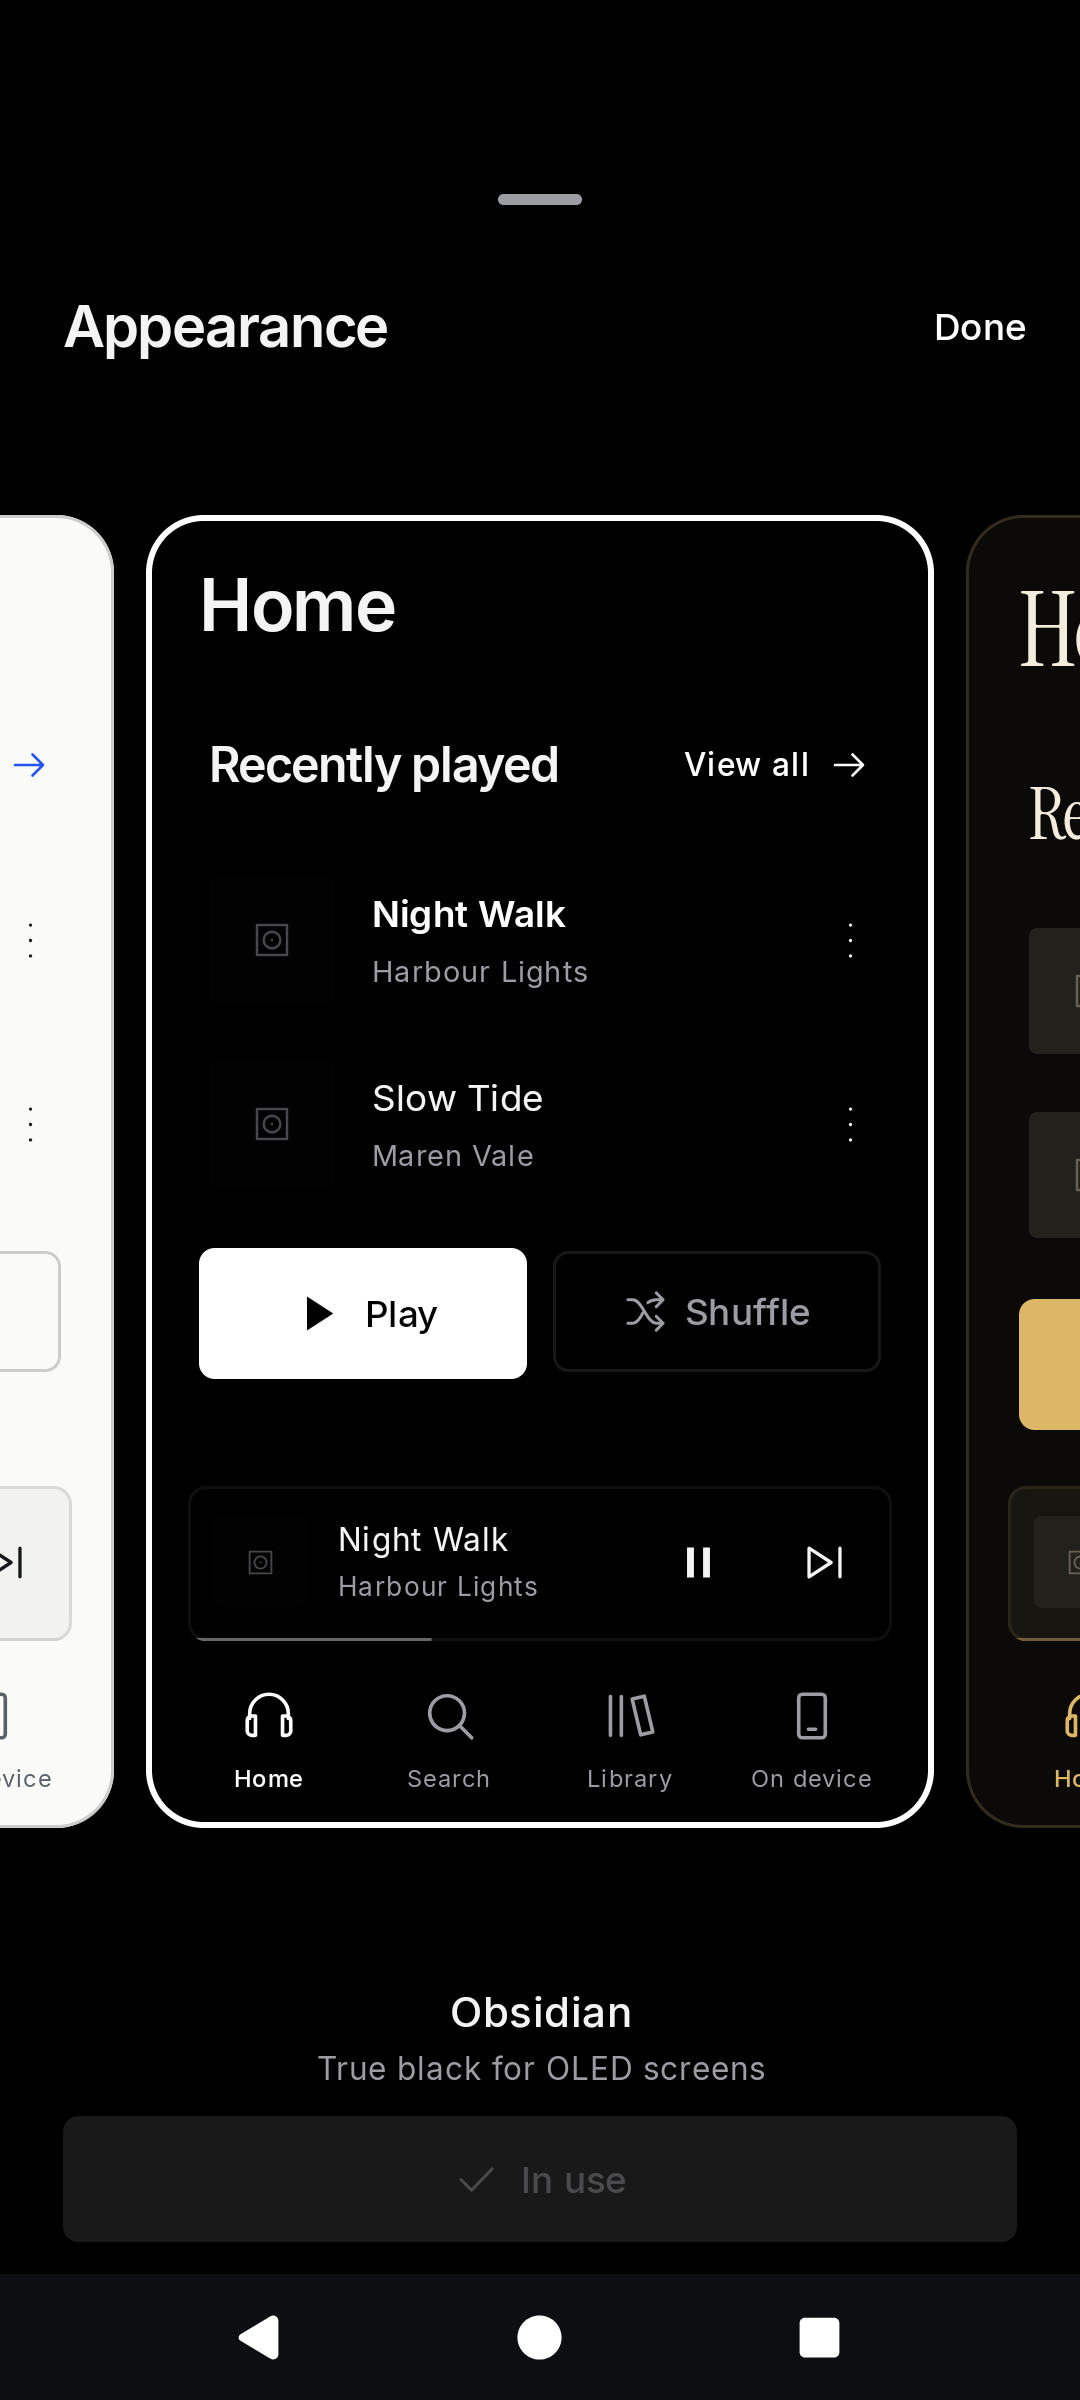
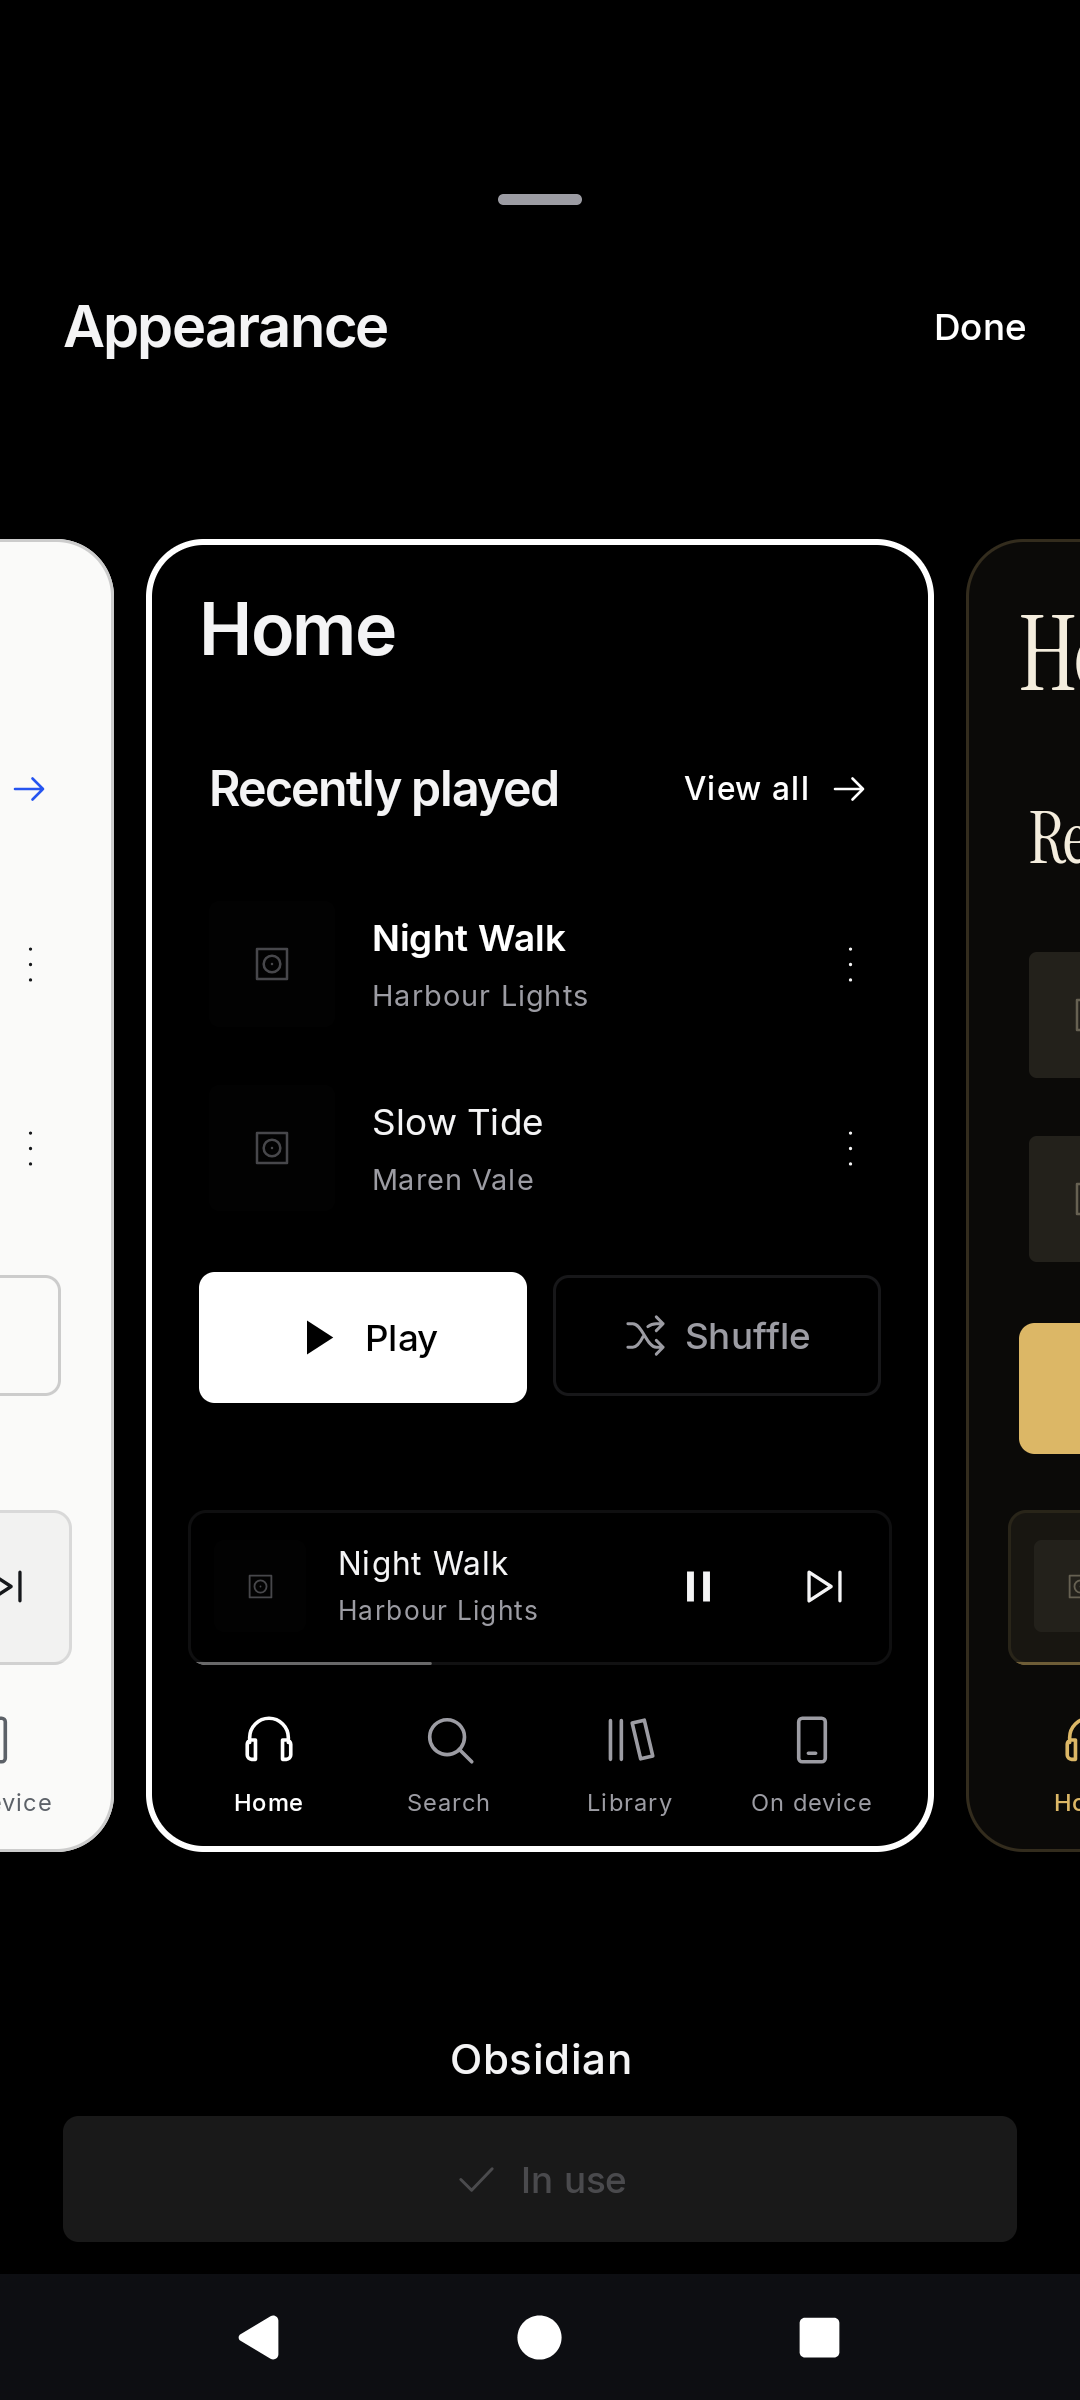
Move the new entries to the unreleased changelog section and refresh the theme picker picture

diff --git a/CHANGELOG.md b/CHANGELOG.md
@@ -4,14 +4,7 @@ All notable changes to OpenTune are listed here. The format follows [Keep a Chan
 
 ## [Unreleased]
 
-## [0.6.1] - 2026-11-07
-
 ### Added
-
-- Avoid repeats has its own page. It lists the avoided tracks with the time of their last play and the time that remains, and Allow lets a track play again at once.
-- Experimental has two download options. Download saved tracks downloads a track when it is saved with the heart button. Download played tracks downloads each track that counts as played and asks for confirmation. Turning one on turns the other off.
-- Listening statistics has its own page, and the period is chosen with a segmented button.
-- The equalizer chooses its preset from a list that shows the current preset.
 
 - Check for updates, under About, looks for a newer release when the app opens and shows a dialog when there is one. A switch turns it off.
 - The theme picker shows the swiped theme in the whole app at once. Use keeps it, and closing the picker brings back the saved theme.
@@ -19,11 +12,26 @@ All notable changes to OpenTune are listed here. The format follows [Keep a Chan
 
 ### Changed
 
-- Without an account, On device is the only place, with its text filter and no navigation bar. Settings that only apply to TIDAL appear once an account is connected.
-- Experimental is a section of the Settings list and no longer a collapsed row.
 - Licenses lists OpenTune and each component with its licence, and a row opens the licence text. The notices carry no other text.
 - The first screen, the sign-in sheet, the empty list of On device, the account row, the About text and the explanations of Avoid repeats and Clear listening history have new wording. The sign-in sheet no longer carries the password sentence.
-- The text of the statistics now states the real rule: a track counts after half its length or 4 minutes, whichever comes first, and never before 30 seconds.
+- Avoid repeats names its list Avoided tracks, and the action on a track is Allow.
+- The text of the statistics states the real rule: a track counts after half its length or 4 minutes, whichever comes first, and never before 30 seconds. The selected period is a filled segment.
+- Add files and Add folder fit narrow screens.
+
+## [0.6.1] - 2026-11-07
+
+### Added
+
+- Avoid repeats has its own page. It lists the excluded tracks with the time of their last play and the time that remains, and Include lets a track play again at once.
+- Experimental has two download options. Download saved tracks downloads a track when it is saved with the heart button. Download played tracks downloads each track that counts as played and asks for confirmation. Turning one on turns the other off.
+- Listening statistics has its own page, and the period is chosen with a segmented button.
+- The equalizer chooses its preset from a list that shows the current preset.
+
+### Changed
+
+- Without an account, On device is the only place, with its text filter and no navigation bar. Settings that only apply to TIDAL appear once an account is connected.
+- Experimental is a section of the Settings list and no longer a collapsed row.
+- The licences open as a list with one page for each document, in place of a dialog with seven tabs.
 - New installs follow the theme of the device. Audiophile Gold is named Gold, and the themes no longer carry descriptions.
 - The About section names OpenTune as an unofficial open source Android music player for TIDAL, for every version.
 - Offline mode is switched off when the account is disconnected.
